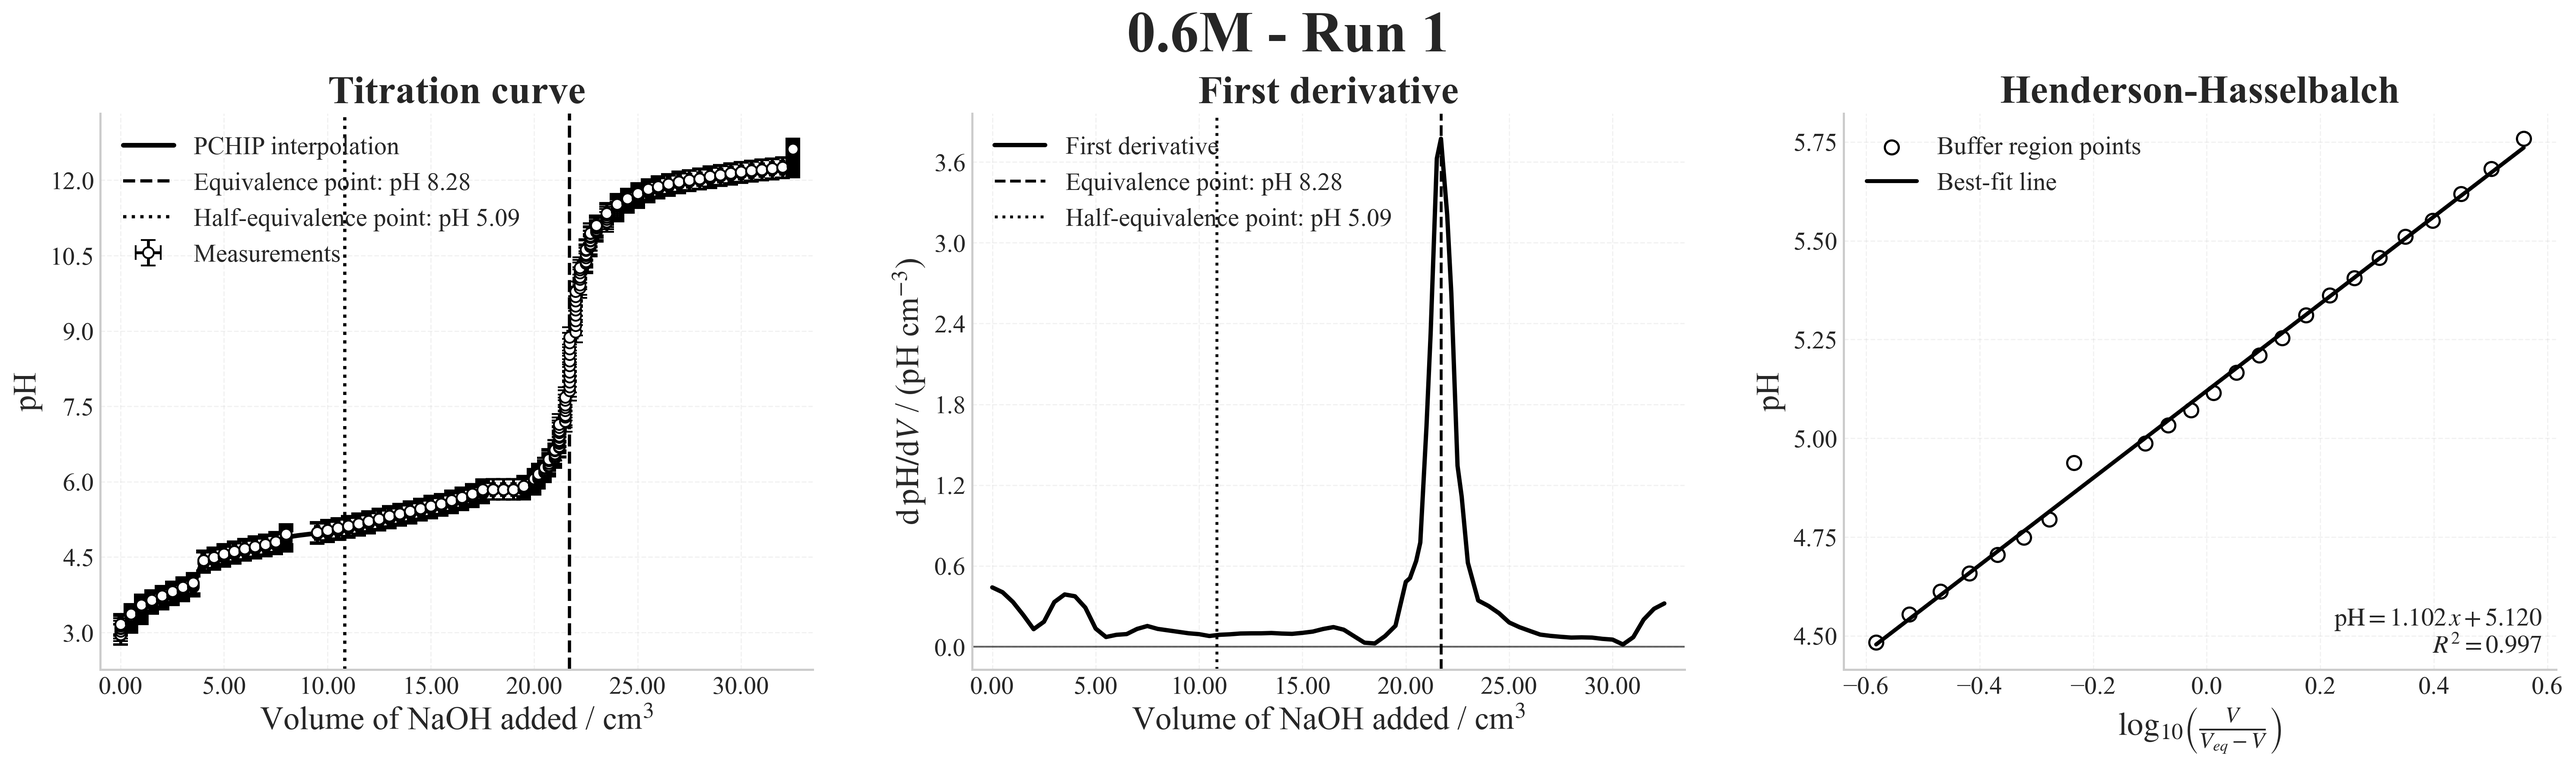
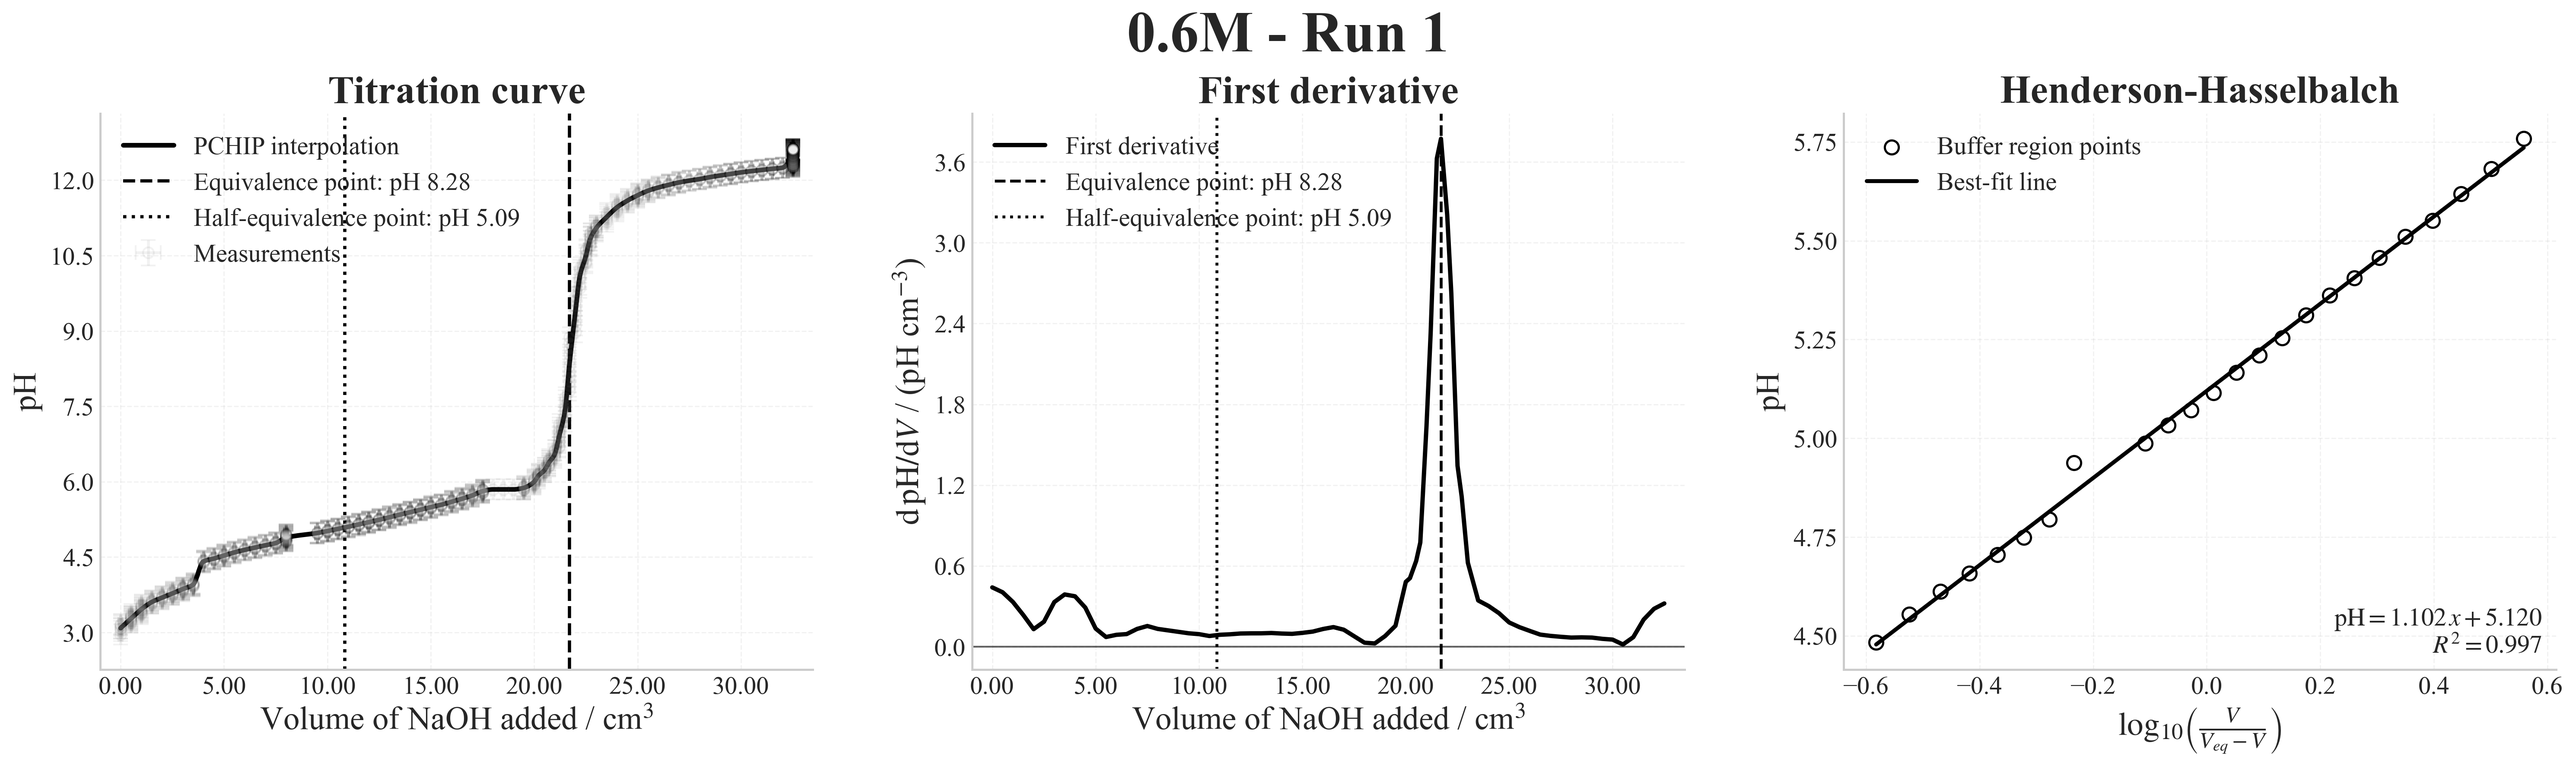
refactor plotting

Changed region(s): [[0.0312, 0.5565, 0.2184, 0.8347], [0.2184, 0.1855, 0.312, 0.5256], [0.0312, 0.3092, 0.0624, 0.3401]]

diff --git a/main.py b/main.py
@@ -91,6 +91,7 @@ def main():
     logging.info("Output directory ensured: %s", output_dir)
 
     import glob
+
     png_files = glob.glob(os.path.join(output_dir, "*.png"))
     for png in png_files:
         os.remove(png)
@@ -102,13 +103,22 @@ def main():
     os.makedirs(without_raw_dir, exist_ok=True)
 
     step_start = time.time()
-    titration_plot_paths_with = plot_titration_curves(results, with_raw_dir, show_raw_pH=True)
-    titration_plot_paths_without = plot_titration_curves(results, without_raw_dir, show_raw_pH=False)
-    summary_plot_path_with = plot_statistical_summary(stats_df, results_df, with_raw_dir)
-    summary_plot_path_without = plot_statistical_summary(stats_df, results_df, without_raw_dir)
+    titration_plot_paths_with = plot_titration_curves(
+        results, with_raw_dir, show_raw_pH=True
+    )
+    titration_plot_paths_without = plot_titration_curves(
+        results, without_raw_dir, show_raw_pH=False
+    )
+    summary_plot_path_with = plot_statistical_summary(
+        stats_df, results_df, with_raw_dir
+    )
+    summary_plot_path_without = plot_statistical_summary(
+        stats_df, results_df, without_raw_dir
+    )
     step_duration = time.time() - step_start
     logging.info(
-        "Generated %d individual titration curve figures in each folder", len(titration_plot_paths_with)
+        "Generated %d individual titration curve figures in each folder",
+        len(titration_plot_paths_with),
     )
 
     step_start = time.time()

diff --git a/salty/plotting.py b/salty/plotting.py
@@ -218,6 +218,16 @@ def plot_titration_curves(
         y_raw = pd.to_numeric(raw_df["pH"], errors="coerce").to_numpy(dtype=float)
 
         if show_raw_pH:
+            temp_df = pd.DataFrame({"x": x_raw, "y": y_raw})
+            temp_df["x"] = pd.to_numeric(temp_df["x"], errors="coerce")
+            temp_df["y"] = pd.to_numeric(temp_df["y"], errors="coerce")
+            temp_df = temp_df[
+                temp_df["x"].notna() & temp_df["y"].notna()
+            ].drop_duplicates()
+            x_raw = temp_df["x"].to_numpy(dtype=float)
+            y_raw = temp_df["y"].to_numpy(dtype=float)
+
+        if show_raw_pH:
             ax1.errorbar(
                 x_raw,
                 y_raw,
@@ -230,7 +240,7 @@ def plot_titration_curves(
                 ecolor=ecolor_bar,
                 elinewidth=1.6,
                 capsize=4,
-                alpha=1.0,
+                alpha=0.05,
                 label="Measurements",
             )
 

diff --git a/salty/uncertainty.py b/salty/uncertainty.py
@@ -141,6 +141,3 @@ def _require_same_unit(items: Mapping[str, Quantity]) -> str:
     if len(uniq) > 1:
         raise ValueError(f"Addition/subtraction requires consistent units; got {uniq}")
     return uniq[0] if uniq else ""
-
-
-

diff --git a/tests/conftest.py b/tests/conftest.py
@@ -1,0 +1,6 @@
+import os
+import sys
+
+ROOT = os.path.abspath(os.path.join(os.path.dirname(__file__), ".."))
+if ROOT not in sys.path:
+    sys.path.insert(0, ROOT)
